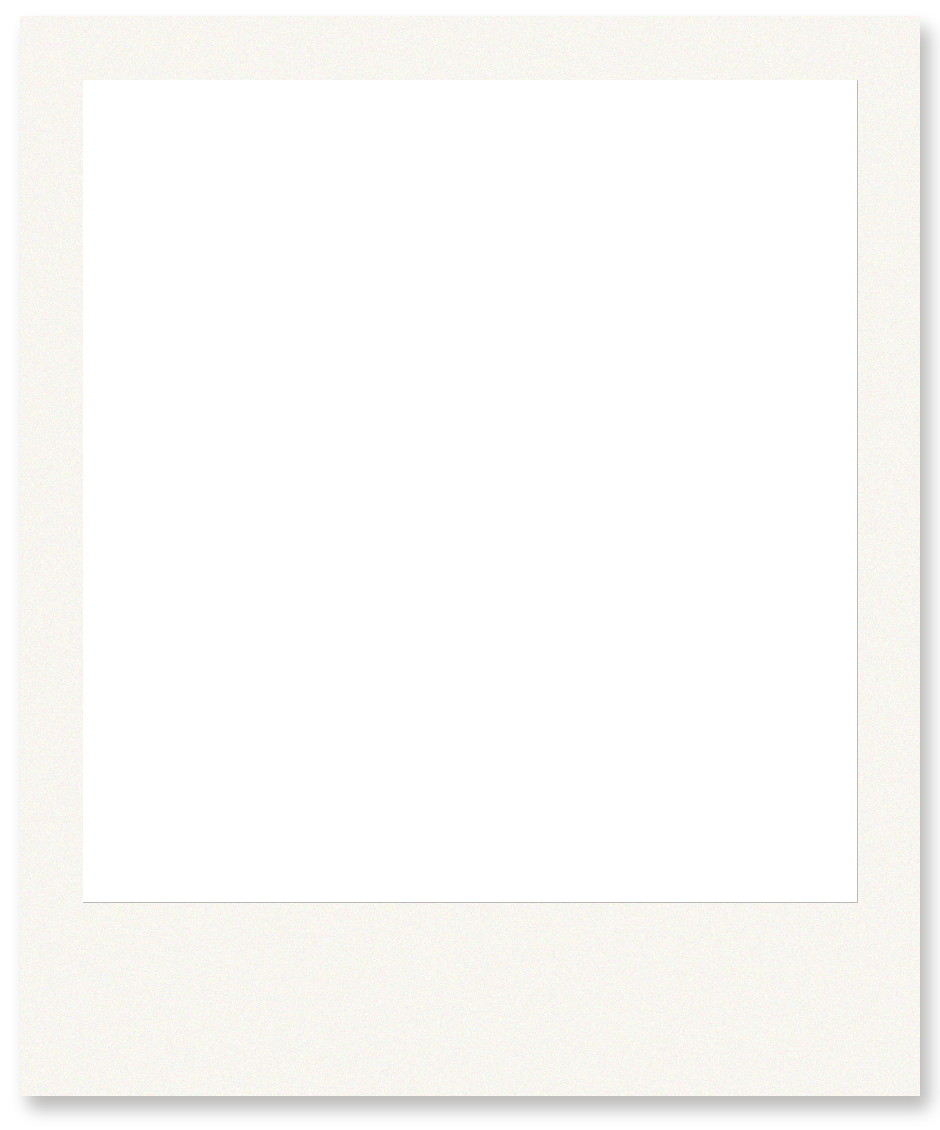
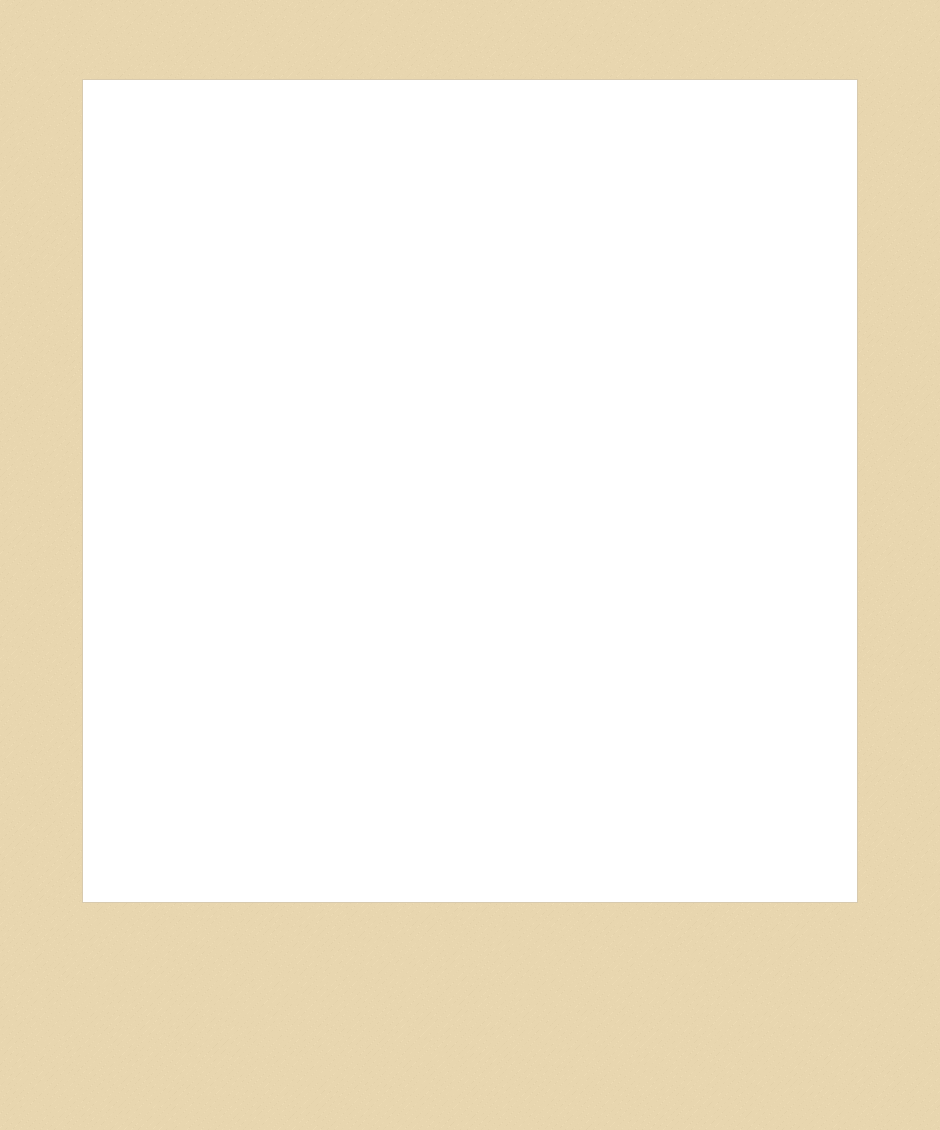
v19v: wire cafe/agency loc photos and lightweight HUD frames (Soft≠PASS)
Replace hud_shell_bar and map_polaroid_frame, cache-bust them at ?v=19v, and show bg_loc_cafe_cha / bg_loc_agency_ho on those Loc sheets. Do not merge.

diff --git a/index.html b/index.html
@@ -22,9 +22,9 @@ html, body, button, a, [role=button], .sp-choice, .sp-next, .sp-skip, .sp-play, 
   --shell:#C8BDB0; --shell-dark:#2E2A26;
   --phys-notice:url("assets/ui-physical/notice/notice_paper.png?v=16");
   --phys-notebook:url("assets/ui-physical/notebook/notebook_spread.png?v=16d");
-  --phys-polaroid:url("assets/ui-physical/map-frame/map_polaroid_frame.png?v=16");
+  --phys-polaroid:url("assets/ui-physical/map-frame/map_polaroid_frame.png?v=19v");
   --phys-toast:url("assets/ui-physical/toast/ticket_stub.png?v=16d");
-  --phys-hud-bar:url("assets/ui-physical/hud/hud_shell_bar.png?v=16");
+  --phys-hud-bar:url("assets/ui-physical/hud/hud_shell_bar.png?v=19v");
   --phys-start-card:url("assets/ui-physical/brand/start_title_card.png?v=16");
   --phys-map-pin:url("assets/ui-physical/map-frame/map_pin.png?v=16");
   --phys-stamp:url("assets/ui-physical/toast/stamp_complete.png?v=17e");
@@ -2668,6 +2668,17 @@ body.day-res-open #mask.day-res{
   flex:0 0 auto !important;
   white-space:nowrap !important;
 }
+/* v19v: cafe_cha／agency_ho loc sheet shows bg_loc_* above the cream actions */
+#loc-sheet .loc-bg{
+  display:none;
+  height:92px;
+  margin:2px 0 6px;
+  border-radius:10px;
+  background:#1a1410 center 42% / cover no-repeat;
+  border:1px solid rgba(107,78,46,.4);
+  flex:0 0 auto;
+}
+#loc-sheet.has-loc-bg .loc-bg{ display:block; }
 
 </style>
 </head>
@@ -2747,6 +2758,7 @@ body.day-res-open #mask.day-res{
     <!-- v17y: sheet is sibling of map-wrap so absolute bottom pins to #v-map, not mid flex/scroll -->
     <div class="sheet" id="loc-sheet">
       <div class="grab"></div>
+      <div class="loc-bg" id="loc-bg" hidden></div>
       <h2 id="loc-title">地點</h2>
       <p class="sub" id="loc-desc"></p>
       <p class="sub" id="loc-who"></p>
@@ -5130,7 +5142,8 @@ const StoryPlay = (()=>{
   };
   const SP_KNOWN_LOCS = {
     tvb_longmen:1, tvb_kowloon:1, tvb_harbour:1, film_lion:1, film_cotton:1, film_harbour:1,
-    ad_central:1, ad_adm:1, rec_star:1, rec_wanchai:1, rec_hk:1
+    ad_central:1, ad_adm:1, rec_star:1, rec_wanchai:1, rec_hk:1,
+    cafe_cha:1, agency_ho:1
   };
   /** expression-aware bust paths tried at runtime; missing files → PORTRAITS → 剪影 */
   const SP_BUST_PROBE = Object.create(null); /* url -> true/false */
@@ -5272,6 +5285,7 @@ const StoryPlay = (()=>{
     const out = [];
     /* Prefer dialog + story/c1 (C1 UI-test pack) before assets/bg placeholders */
     ["jpg","png","webp"].forEach(ext=>{
+      out.push("assets/story/locs/"+key+"."+ext+"?v=19v");
       out.push("assets/dialog/"+key+"."+ext);
       out.push("assets/story/c1/"+key+"."+ext);
       out.push("assets/bg/"+key+"."+ext);
@@ -9386,6 +9400,7 @@ function openLoc(id){
     return true;
   });
   document.getElementById("loc-title").textContent=`${L.emoji} ${L.name}`;
+  applyLocSheetBg(L.id);
   const hub = !!mockAskDefs(L.id);
   if(hub){
     document.getElementById("loc-desc").textContent = L.desc||"";
@@ -9520,9 +9535,29 @@ function openLoc(id){
   scrollMapPinIntoView(id);
   if(id==="agency_ho") playPushDoor();
 }
+const LOC_SHEET_BG = {
+  cafe_cha:"assets/story/locs/bg_loc_cafe_cha.jpg?v=19v",
+  agency_ho:"assets/story/locs/bg_loc_agency_ho.jpg?v=19v",
+};
+function applyLocSheetBg(locId){
+  const sheet=document.getElementById("loc-sheet");
+  const bg=document.getElementById("loc-bg");
+  const url=LOC_SHEET_BG[locId];
+  if(!sheet || !bg) return;
+  if(url){
+    bg.style.backgroundImage='url("'+url+'")';
+    bg.hidden=false;
+    sheet.classList.add("has-loc-bg");
+  } else {
+    bg.style.backgroundImage="";
+    bg.hidden=true;
+    sheet.classList.remove("has-loc-bg");
+  }
+}
 function closeSheet(){
   const sheet=document.getElementById("loc-sheet");
   if(sheet) sheet.classList.remove("on");
+  try{ applyLocSheetBg(""); }catch(_e){}
   const wrap=mapWrapEl();
   if(wrap) wrap.classList.remove("sheet-open");
   restoreMapScroll();

diff --git a/assets/ui-physical/HUD_MAP_OPT_NOTES.md b/assets/ui-physical/HUD_MAP_OPT_NOTES.md
@@ -1,0 +1,43 @@
+# HUD／map polaroid web-opt notes（?v=19u timeout fix）
+
+> 2026-11-04（Asia/Hong_Kong）｜GD  
+> Soft≠PASS。Overwrite 原路徑；舊檔留 `_bak`。
+
+## Problem
+
+Preview `?v=19u` timeout on:
+
+- `assets/ui-physical/hud/hud_shell_bar.png`（was **~240 KB**, 1280×320 RGBA）
+- `assets/ui-physical/map-frame/map_polaroid_frame.png`（was **~725 KB**, 940×1130 RGBA）
+
+## Fix
+
+| file | before | after | method |
+|---|---:|---:|---|
+| `map-frame/map_polaroid_frame.png` | 724824 | **7324** | Pillow procedural cream frame；`contentRectNorm` 對齊 `slices.json` map_polaroid；中心相井 **alpha=0**；厚底邊；少 mid-alpha |
+| `map-frame/map_polaroid_frame.jpg` | 93391 | **23046** | black-fill companion refresh |
+| `hud/hud_shell_bar.png` | 239629 | **4720** | Pillow procedural plastic／chrome shell bar（canon `shell` `#C8BDB0`／`shell_dark`）；同尺寸 1280×320；保留透明底 |
+| `hud/hud_shell_bar.jpg` | 29131 | **17600** | companion refresh |
+
+## Backups（唔刪）
+
+- `map-frame/map_polaroid_frame_bak.png` / `_bak.jpg`
+- `hud/hud_shell_bar_bak.png` / `_bak.jpg`
+
+## Layout semantics（unchanged）
+
+`slices.json` → `map_polaroid.contentRectNorm`:
+
+- x≈0.0883, y≈0.0708, w≈0.8234, h≈0.7274  
+- outerAspect 1:1.2；transparent photo well；thicker bottom border
+
+iOS／preview 應繼續用**同路徑**（overwrite），唔使改 tip／LIVE wiring；清 cache 後再測 `?v=`。
+
+## Soft notes
+
+- Polaroid／HUD 為程式實體感切圖，非最終彩繪；可再加紙紋／膠面高光。
+- Soft≠PASS；**89–92 HOLD**。
+
+## 2026-11-04 polaroid well fix
+- Regenerated from `_bak` texture + punched transparent well per slices.json contentRectNorm (was solid black briefly).
+- Soft≠PASS.

diff --git a/assets/story/locs/MANIFEST.md b/assets/story/locs/MANIFEST.md
@@ -1,0 +1,34 @@
+# Phase 2 location environments — MANIFEST
+
+> 2026-11-04（Asia/Hong_Kong）  
+> LOOKS master: `content/PLAN_CHAR_LOOKS_REF_v1.md`（SHA 48ea7aac… verified）  
+> Pipeline: **cursor GenerateImage** → crop/cover **720×1280** JPG q≈85  
+> Soft≠PASS。**唔改 LIVE 碼**。**1989–1992 資產 HOLD**。
+
+## Files
+
+| artId / key | file | size | dims | notes |
+|---|---|---:|---|---|
+| `bg_loc_cafe_cha` | `bg_loc_cafe_cha.jpg` | ~149 KB | 720×1280 | 金龍茶餐廳 interior；晚八〇港式茶餐廳卡座＋凍奶茶＋油煙／蒸氣；空白牌／空木框；無人臉；無商標／無水印／無烘焙中文 |
+| `bg_loc_agency_ho` | `bg_loc_agency_ho.jpg` | ~179 KB | 720×1280 | 何生事務所；煙灰缸／劇本紙堆／電話／檯燈＋螢光；香煙煙霧；無真藝人相／無商標；無人臉 |
+
+## LocId wiring (engine)
+
+| locId | preferred bg key |
+|---|---|
+| `cafe_cha` | `bg_loc_cafe_cha` |
+| `agency_ho` | `bg_loc_agency_ho` |
+
+C1 chapter tea (`assets/story/c1/bg_c1_tea_restaurant.jpg`) 仍作 C1 beat 用；本檔＝**地圖 loc master**，可改進 C1 茶餐廳 vibe。
+
+## QC checklist
+
+- [x] 720×1280 vertical
+- [x] 無人臉／無英雄 bust
+- [x] 無水印
+- [ ] Soft：agency 紙張／corkboard 若有可讀殘影 → 下輪 blur／重出（本輪目檢偏抽象筆觸）
+- Soft≠PASS
+
+## Pack
+
+見 `/workspace/star-volunteer-web-phase2-locs-hud.tar.gz`

diff --git a/NOTES_V19V_SOFT_NITS.md b/NOTES_V19V_SOFT_NITS.md
@@ -9,6 +9,8 @@ Phone web preview tip. Soft nits only, after v19u browser PASS. Parent tip stays
 5. 地圖／loc toast 唔再因為身在地圖就 `closeSheet()`。只有呼叫方傳 `closeSheet:true` 先收 sheet。地圖上 sheet 開住時，票根 toast 移到分區掣下面，茶餐廳／事務所三個行動同「返地圖」保持可見。
 6. Modal 豎滾選擇列：小賣／送禮 `.act` 喺 `#modal-inner` 內，右掣 `min-width:0`＋唔縮，避免尾掣被橫向裁走。Casting sheet 底掣仍喺 `#modal-btns`，未改。
 
-C1–C5 閘、硬鎖、看板分級、通告 JSON 內容（除 keyGigs 數字）未改。無新圖。
+6. Soft-PASS 圖：`assets/story/locs/bg_loc_cafe_cha.jpg`、`bg_loc_agency_ho.jpg` 掛上對應 Loc sheet（`?v=19v`），故事背景候選亦先搵 `assets/story/locs/`。HUD `hud_shell_bar` 同拍立得 `map_polaroid_frame` 換輕量檔，CSS `?v=16` → `?v=19v`。相井透明。無 C 閘／通告正文改動。
+
+C1–C5 閘、硬鎖、看板分級、通告 JSON 內容（除 keyGigs 數字）未改。
 
 Soft≠PASS. 出圖 HOLD. 唔 publish. 唔 merge.
